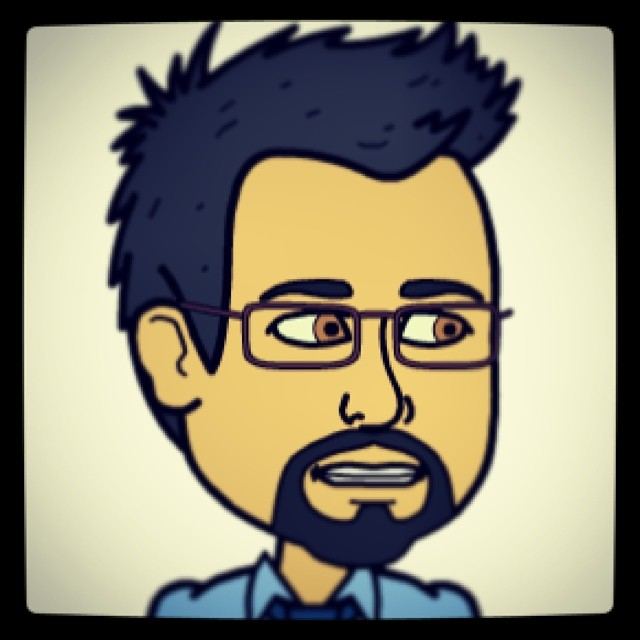
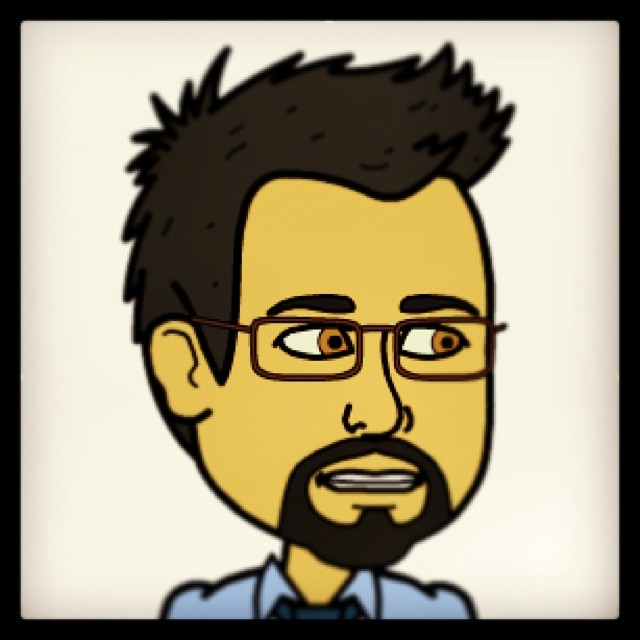
Added picture change through jquery

diff --git a/index.html b/index.html
@@ -13,6 +13,20 @@
 
 <body>
 
+    <script>
+    $(document).ready(function () {
+        $(".profile-image img").hover(function () {
+            $(this).attr("src" ,"images/profile_picture2.png");
+        }, function () {
+            $(this).attr("src" ,"images/profile_picture1.png");
+        });
+
+        $(".profile-image img").hover(function () {
+            $(".profile-image .text").slideToggle();
+        });
+    });
+    </script>
+
     <div class="container">
         <header class = "top-nav">
             <div class="profile-image">
